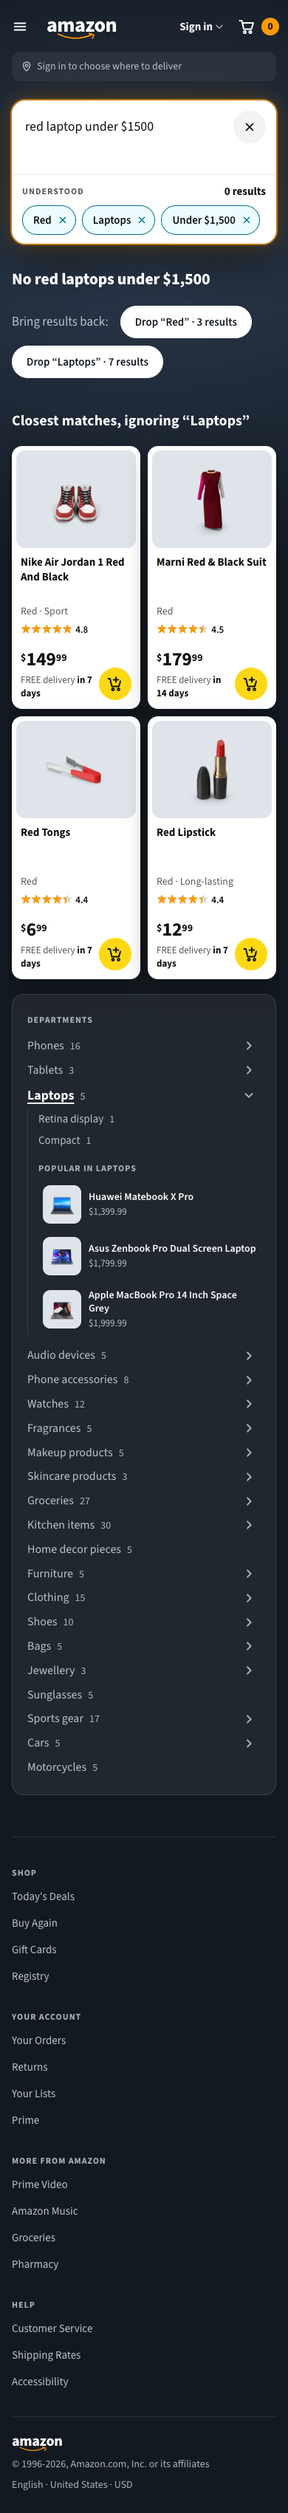
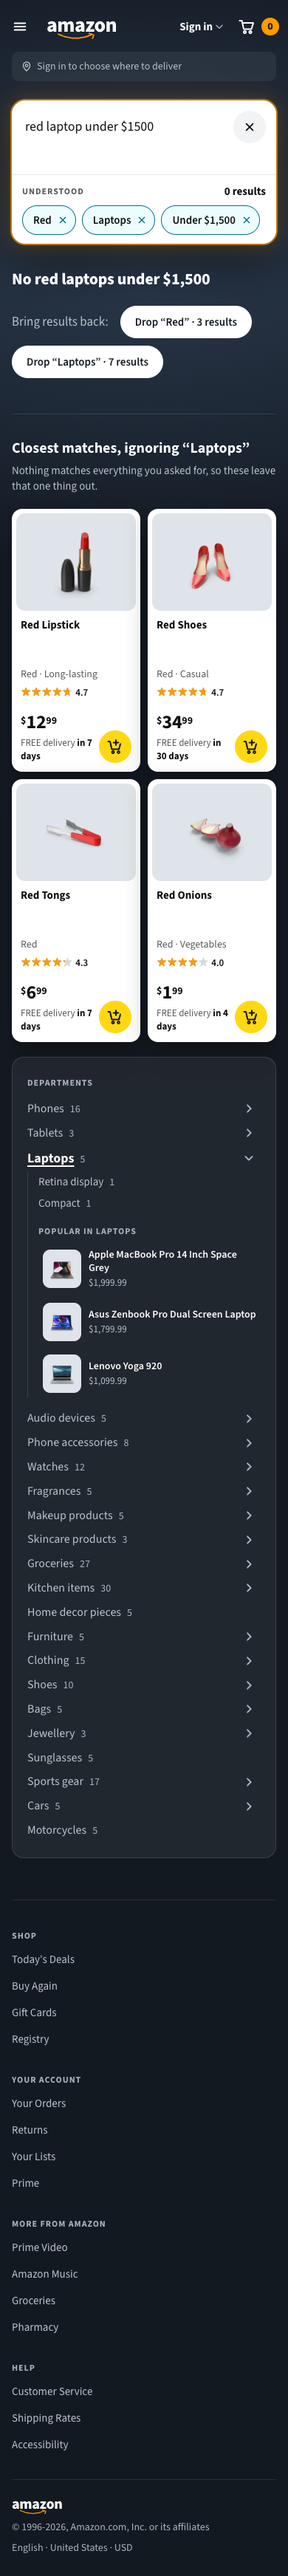
Update screenshots for review-based ratings and record agent session log

diff --git a/.agent-logs/2026-10-14_13-42-21_0477cd29-ad3c-4f52-ad57-38b7b6b27a1c.md b/.agent-logs/2026-10-14_13-42-21_0477cd29-ad3c-4f52-ad57-38b7b6b27a1c.md
@@ -5,9 +5,9 @@ author: darrikonn
 model: claude-opus-5-5
 tool: claude-code
 project: 8x-interview
-total_exchanges: 40
+total_exchanges: 42
 first_prompt_time: 2026-10-14T13:42:21.905Z
-last_prompt_time: 2026-10-15T09:33:28.677Z
+last_prompt_time: 2026-10-15T09:43:48.973Z
 ---
 
 # Session Log - 2026-10-14
@@ -2007,4 +2007,39 @@ timestamp: 2026-10-15T09:33:28.677Z
 model: claude-opus-5-5
 
 let's make the delete button a text only button, with destructive color (so no box-shadow/border)
+
+
+[LOG_ENTRY type=RESPONSE num=40 session=0477cd29]
+timestamp: 2026-10-15T09:34:56.654Z
+model: claude-opus-5-5
+
+Delete in the cart is now text only, in red, with no border, background or shadow. It underlines on hover, and the quantity menu beside it is unchanged.
+
+The red is a new `--color-destructive` colour token, so other destructive actions can use the same shade later.
+
+I checked it in Chrome, and the commit passes format, lint and all 392 tests. It's committed on local `main` with the screenshots refreshed; nothing is pushed.
+
+
+[LOG_ENTRY type=PROMPT num=41 session=0477cd29]
+timestamp: 2026-10-15T09:37:37.014Z
+model: claude-opus-5-5
+
+we need more separation between closest matches and the actual results.
+
+Also the search debounce value needs to be increased, it starts searching to early.
+
+Also the rating average value is incorrect, this should be 10 stars / 3 reviews = 3.3
+
+
+[LOG_ENTRY type=PROMPT num=42 session=0477cd29]
+timestamp: 2026-10-15T09:43:48.973Z
+model: claude-opus-5-5
+
+<task-notification>
+<task-id>bvnp72if8</task-id>
+<tool-use-id>toolu_01MWHhhRVtmh3yKP7YaJDGr7</tool-use-id>
+<output-file>/private/tmp/claude-501/-Users-darrikonn-Documents-repos-8x-interview/0477cd29-ad3c-4f52-ad57-38b7b6b27a1c/tasks/bvnp72if8.output</output-file>
+<status>completed</status>
+<summary>Background command "Commit the three changes and gate each" completed (exit code 0)</summary>
+</task-notification>
 
